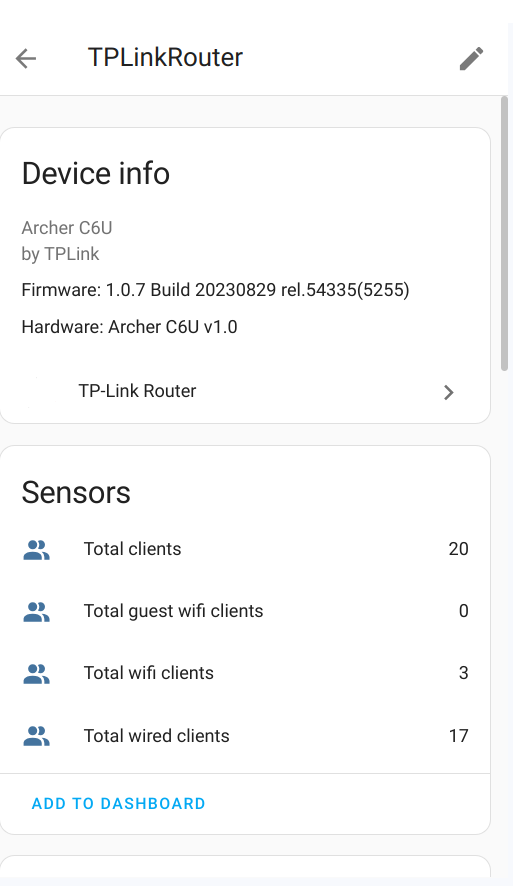
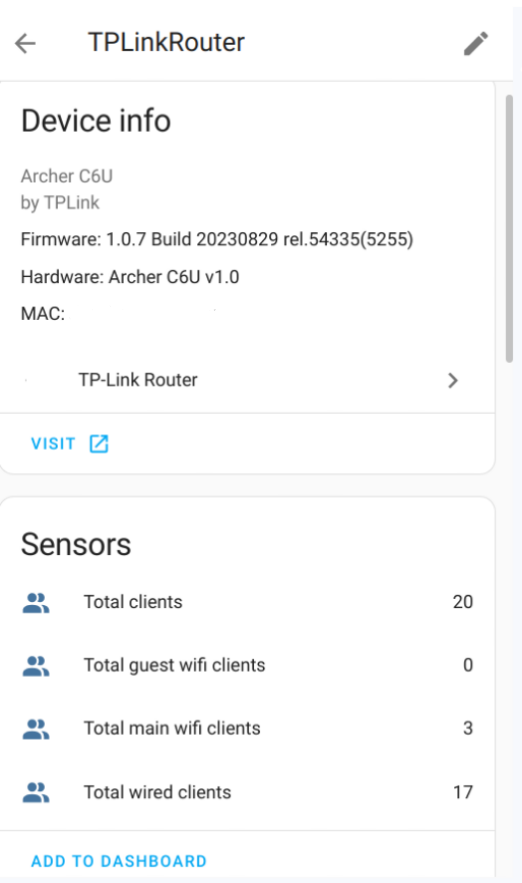
Added default host to configuration GUI

diff --git a/custom_components/tplink_router/coordinator.py b/custom_components/tplink_router/coordinator.py
@@ -19,6 +19,7 @@ class TPLinkRouterCoordinator(DataUpdateCoordinator):
         self.firmware = info[0]
         self.status = info[1]
         self.device_info = DeviceInfo(
+            configuration_url=f"http://{router.host}/",
             connections={(CONNECTION_NETWORK_MAC, self.status.macaddr)},
             identifiers={(DOMAIN, self.status.macaddr)},
             manufacturer="TPLink",

diff --git a/custom_components/tplink_router/config_flow.py b/custom_components/tplink_router/config_flow.py
@@ -14,7 +14,7 @@ from tplinkrouterc6u import TplinkRouter
 
 STEP_USER_DATA_SCHEMA = vol.Schema(
     {
-        vol.Required(CONF_HOST): str,
+        vol.Required(CONF_HOST, default='192.168.0.1'): str,
         vol.Required(CONF_USERNAME, default='admin'): str,
         vol.Required(CONF_PASSWORD): str,
         vol.Required(CONF_SCAN_INTERVAL, default=30): int,

diff --git a/README.md b/README.md
@@ -43,6 +43,8 @@ Have [HACS](https://hacs.xyz/) installed, this will allow you to update easily.
 ## Configuration
 TP-Link Router is configured via the GUI. See [the HA docs](https://www.home-assistant.io/getting-started/integration/) for more details.
 
+The default data is preset already
+
 <img src="https://raw.githubusercontent.com/AlexandrErohin/home-assistant-tplink-router/master/docs/media/config_flow.png" width="48%">
 
 1. Go to the <b>Settings</b>-><b>Devices & services</b>.
